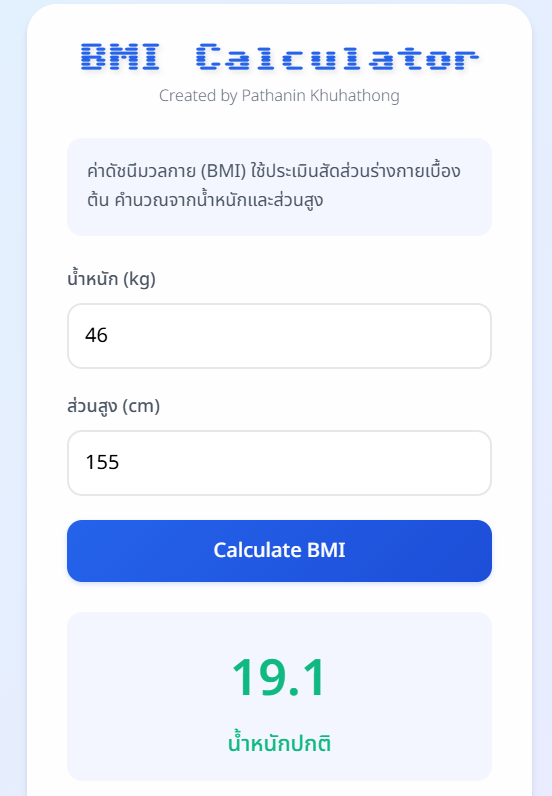
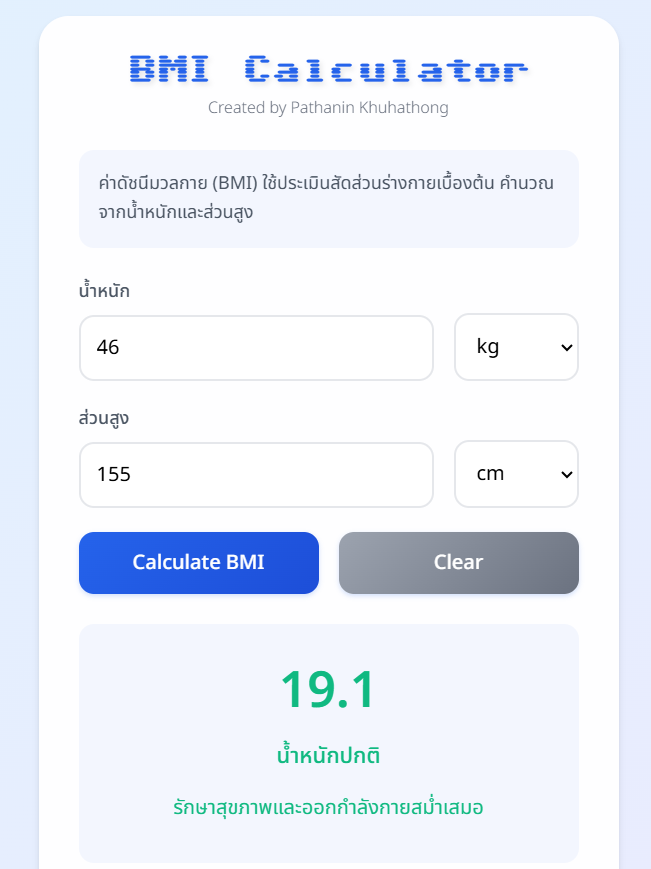
Debug

diff --git a/script.js b/script.js
@@ -1,33 +1,65 @@
+function convertWeight(value, from, to) {
+    if (from === to) return value;
+    return from === 'kg' ? value * 2.20462 : value / 2.20462;
+}
+
+function convertHeight(value, from, to) {
+    if (from === to) return value;
+    return from === 'cm' ? value / 2.54 : value * 2.54;
+}
+
 function calculateBMI() {
-    const weight = document.getElementById('weight').value;
-    const height = document.getElementById('height').value / 100;
+    const weightInput = document.getElementById('weight');
+    const heightInput = document.getElementById('height');
+    const weightUnit = document.getElementById('weightUnit').value;
+    const heightUnit = document.getElementById('heightUnit').value;
     const result = document.getElementById('result');
 
-    if (weight && height) {
-        const bmi = weight / (height * height);
-        let category, color;
+    let weight = parseFloat(weightInput.value);
+    let height = parseFloat(heightInput.value);
 
-        if (bmi < 18.5) {
-            category = 'น้ำหนักต่ำกว่าเกณฑ์';
-            color = '#3b82f6';
-        } else if (bmi < 25) {
-            category = 'น้ำหนักปกติ';
-            color = '#10b981';
-        } else if (bmi < 30) {
-            category = 'น้ำหนักเกิน';
-            color = '#f59e0b';
-        } else {
-            category = 'อ้วน';
-            color = '#ef4444';
-        }
-
-        result.innerHTML = `
-            <p style="font-size: 2.5rem; font-weight: 600; margin: 0.5rem 0; color: ${color};">
-                ${bmi.toFixed(1)}
-            </p>
-            <p style="font-size: 1.1rem; color: ${color}; font-weight: 500; margin: 0;">
-                ${category}
-            </p>
-        `;
+    if (weight <= 0 || height <= 0) {
+        result.innerHTML = '<p style="color: #ef4444;">กรุณากรอกข้อมูลที่ถูกต้อง</p>';
+        return;
     }
+    
+    const weightInKg = weightUnit === 'kg' ? weight : convertWeight(weight, 'lb', 'kg');
+    const heightInM = (heightUnit === 'cm' ? height : convertHeight(height, 'in', 'cm')) / 100;
+
+    const bmi = weightInKg / (heightInM * heightInM);
+    let category, color, advice;
+
+    if (bmi < 18.5) {
+        category = 'น้ำหนักต่ำกว่าเกณฑ์';
+        color = '#3b82f6';
+        advice = 'ควรเพิ่มน้ำหนักและออกกำลังกายเพื่อสร้างกล้ามเนื้อ';
+    } else if (bmi < 25) {
+        category = 'น้ำหนักปกติ';
+        color = '#10b981';
+        advice = 'รักษาสุขภาพและออกกำลังกายสม่ำเสมอ';
+    } else if (bmi < 30) {
+        category = 'น้ำหนักเกิน';
+        color = '#f59e0b';
+        advice = 'ควรควบคุมอาหารและออกกำลังกายเพิ่มขึ้น';
+    } else {
+        category = 'อ้วน';
+        color = '#ef4444';
+        advice = 'ควรปรึกษาแพทย์เพื่อวางแผนลดน้ำหนัก';
+    }
+
+    result.innerHTML = `
+        <p style="font-size: 2.5rem; font-weight: 600; margin: 0.5rem 0; color: ${color};">
+            ${bmi.toFixed(1)}
+        </p>
+        <p style="font-size: 1.1rem; color: ${color}; font-weight: 500; margin: 0;">
+            ${category}
+        </p>
+        <p style="font-size: 1rem; color: ${color};">${advice}</p>
+    `;
+}
+
+function resetForm() {
+    document.getElementById('weight').value = '';
+    document.getElementById('height').value = '';
+    document.getElementById('result').innerHTML = '';
 }

diff --git a/index.html b/index.html
@@ -18,16 +18,40 @@
         <div class="guide">
             ค่าดัชนีมวลกาย (BMI) ใช้ประเมินสัดส่วนร่างกายเบื้องต้น คำนวณจากน้ำหนักและส่วนสูง
         </div>
+        
         <div class="input-group">
-            <label>น้ำหนัก (kg)</label>
-            <input type="number" id="weight" placeholder="60">
+            <div class="input-field">
+                <label>น้ำหนัก</label>
+                <input type="number" id="weight" placeholder="60">
+            </div>
+            <div class="input-field" style="max-width: 100px;">
+                <select id="weightUnit">
+                    <option value="kg">kg</option>
+                    <option value="lb">lb</option>
+                </select>
+            </div>
         </div>
+        
         <div class="input-group">
-            <label>ส่วนสูง (cm)</label>
-            <input type="number" id="height" placeholder="170">
+            <div class="input-field">
+                <label>ส่วนสูง</label>
+                <input type="number" id="height" placeholder="170">
+            </div>
+            <div class="input-field" style="max-width: 100px;">
+                <select id="heightUnit">
+                    <option value="cm">cm</option>
+                    <option value="in">in</option>
+                </select>
+            </div>
         </div>
-        <button onclick="calculateBMI()">Calculate BMI</button>
+
+        <div class="button-group">
+            <button onclick="calculateBMI()">Calculate BMI</button>
+            <button onclick="resetForm()" class="secondary">Clear</button>
+        </div>
+
         <div id="result"></div>
+
         <div class="bmi-scale">
             <div style="border-left: 4px solid #3b82f6;">
                 ต่ำกว่าเกณฑ์: < 18.5 
@@ -47,7 +71,6 @@
             </div>
         </div>
     </div>
-
     <script src="script.js"></script>
 </body>
 </html>

diff --git a/styles.css b/styles.css
@@ -10,7 +10,7 @@ body {
 }
 .container {
     width: 90%;
-    max-width: 340px;
+    max-width: 400px;
     background: rgba(255, 255, 255, 0.95);
     padding: 2rem;
     border-radius: 24px;
@@ -48,6 +48,12 @@ h1 {
 }
 .input-group {
     margin-bottom: 1.2rem;
+    display: flex;
+    gap: 1rem;
+    align-items: flex-end;
+}
+.input-field {
+    flex: 1;
 }
 label {
     display: block;
@@ -56,7 +62,7 @@ label {
     color: #4b5563;
     font-weight: 500;
 }
-input {
+input, select {
     width: 100%;
     padding: 0.8rem;
     border: 2px solid #e5e7eb;
@@ -66,7 +72,7 @@ input {
     box-sizing: border-box;
     font-family: 'Noto Sans Thai', sans-serif;
 }
-input:focus {
+input:focus, select:focus {
     outline: none;
     border-color: #2563eb;
     box-shadow: 0 0 0 3px rgba(37, 99, 235, 0.1);
@@ -74,8 +80,13 @@ input:focus {
 input::placeholder {
     color: #9ca3af;
 }
+.button-group {
+    display: flex;
+    gap: 1rem;
+    margin-bottom: 1.5rem;
+}
 button {
-    width: 100%;
+    flex: 1;
     padding: 0.8rem;
     background: linear-gradient(135deg, #2563eb, #1d4ed8);
     color: white;
@@ -88,6 +99,9 @@ button {
     font-weight: 500;
     box-shadow: 0 2px 4px rgba(37, 99, 235, 0.2);
 }
+button.secondary {
+    background: linear-gradient(135deg, #9ca3af, #6b7280);
+}
 button:hover {
     transform: translateY(-1px);
     box-shadow: 0 4px 6px rgba(37, 99, 235, 0.3);
@@ -96,7 +110,7 @@ button:active {
     transform: translateY(0);
 }
 #result {
-    margin-top: 1.5rem;
+    margin: 1.5rem 0;
     text-align: center;
     padding: 1rem;
     border-radius: 12px;
